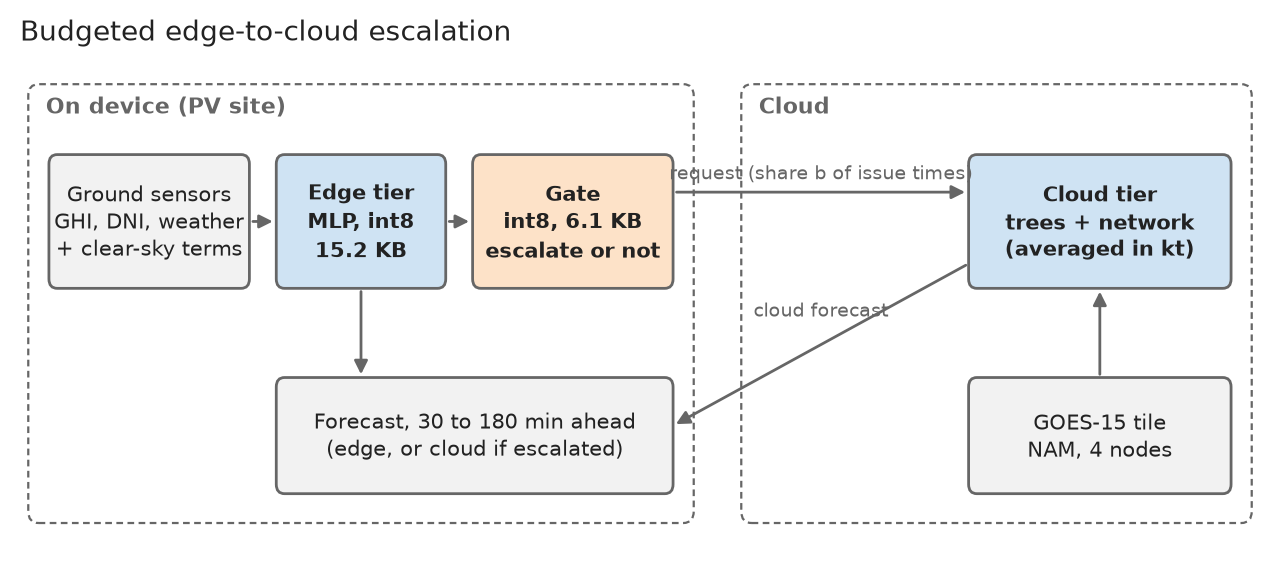
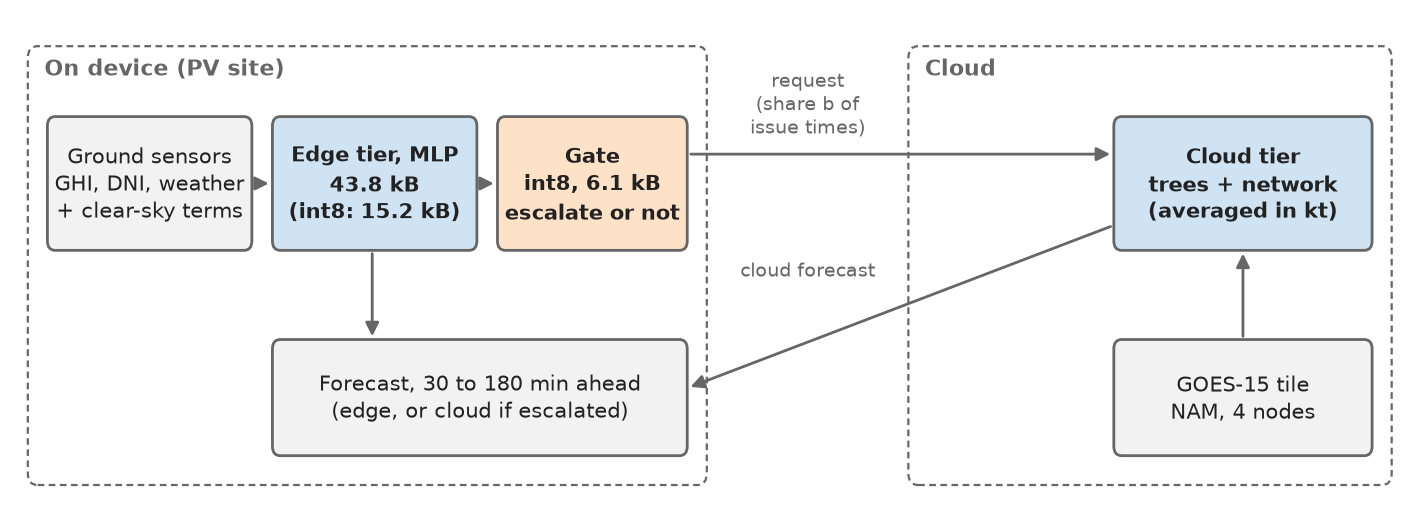
Architecture figure: edge tier fp32 43.8 kB (int8: 15.2 kB); request and cloud-forecast labels in the gap, clear of boxes and borders (checked in code); no in-figure title

diff --git a/scripts/core_figures.py b/scripts/core_figures.py
@@ -17,8 +17,8 @@ PAPER = Path("results/paper")
 
 
 def fig_architecture() -> list[str]:
-    fig, ax = plt.subplots(figsize=(8.0, 3.2))
-    ax.set_xlim(0, 12)
+    fig, ax = plt.subplots(figsize=(8.9, 3.2))
+    ax.set_xlim(0, 14.1)
     ax.set_ylim(0, 4.2)
     ax.axis("off")
     ax.grid(False)
@@ -28,29 +28,30 @@ def fig_architecture() -> list[str]:
         ax.text(x + w / 2, y + h / 2, text, ha="center", va="center", fontsize=7.5, color=S.INK,
                 fontweight="bold" if bold else "normal", linespacing=1.35)
 
-    def arrow(x0, y0, x1, y1, text="", tx=None, ty=None):
+    def arrow(x0, y0, x1, y1):
         ax.add_patch(FancyArrowPatch((x0, y0), (x1, y1), arrowstyle="-|>", mutation_scale=10, lw=1.0, color=S.MUTED))
-        if text:
-            ax.text(tx if tx is not None else (x0 + x1) / 2, ty if ty is not None else (y0 + y1) / 2 + 0.1, text,
-                    ha="center", va="bottom", fontsize=7, color=S.MUTED)
 
-    for x, w, label in ((0.1, 6.4, "On device (PV site)"), (7.0, 4.9, "Cloud")):
+    for x, w, label in ((0.1, 6.9, "On device (PV site)"), (9.1, 4.9, "Cloud")):
         ax.add_patch(FancyBboxPatch((x, 0.25), w, 3.7, boxstyle="round,pad=0.02,rounding_size=0.1", fc="none",
                                     ec=S.MUTED, lw=0.8, ls=(0, (3, 2))))
         ax.text(x + 0.15, 3.72, label, fontsize=8, color=S.MUTED, fontweight="bold")
-    box(0.3, 2.25, 1.9, 1.1, "Ground sensors\nGHI, DNI, weather\n+ clear-sky terms", "#f2f2f2")
-    box(2.5, 2.25, 1.6, 1.1, "Edge tier\nMLP, int8\n15.2 KB", "#cfe3f3", bold=True)
-    box(4.4, 2.25, 1.9, 1.1, "Gate\nint8, 6.1 KB\nescalate or not", "#fde2c8", bold=True)
-    box(2.5, 0.5, 3.8, 0.95, "Forecast, 30 to 180 min ahead\n(edge, or cloud if escalated)", "#f2f2f2")
-    box(9.2, 2.25, 2.5, 1.1, "Cloud tier\ntrees + network\n(averaged in kt)", "#cfe3f3", bold=True)
-    box(9.2, 0.5, 2.5, 0.95, "GOES-15 tile\nNAM, 4 nodes", "#f2f2f2")
-    arrow(2.2, 2.8, 2.5, 2.8)
-    arrow(4.1, 2.8, 4.4, 2.8)
-    arrow(3.3, 2.25, 3.3, 1.45)
-    arrow(6.3, 3.05, 9.2, 3.05, "request (share b of issue times)", ty=3.12)
-    arrow(10.45, 1.45, 10.45, 2.25)
-    arrow(9.2, 2.45, 6.3, 1.05, "cloud forecast", tx=7.75, ty=1.95)
-    ax.set_title("Budgeted edge-to-cloud escalation", loc="left", fontsize=10, color=S.INK)
+    box(0.3, 2.25, 2.05, 1.1, "Ground sensors\nGHI, DNI, weather\n+ clear-sky terms", "#f2f2f2")
+    box(2.6, 2.25, 2.05, 1.1, "Edge tier, MLP\n43.8 kB\n(int8: 15.2 kB)", "#cfe3f3", bold=True)
+    box(4.9, 2.25, 1.9, 1.1, "Gate\nint8, 6.1 kB\nescalate or not", "#fde2c8", bold=True)
+    box(2.6, 0.5, 4.2, 0.95, "Forecast, 30 to 180 min ahead\n(edge, or cloud if escalated)", "#f2f2f2")
+    box(11.2, 2.25, 2.6, 1.1, "Cloud tier\ntrees + network\n(averaged in kt)", "#cfe3f3", bold=True)
+    box(11.2, 0.5, 2.6, 0.95, "GOES-15 tile\nNAM, 4 nodes", "#f2f2f2")
+    arrow(2.35, 2.8, 2.6, 2.8)
+    arrow(4.65, 2.8, 4.9, 2.8)
+    arrow(3.6, 2.25, 3.6, 1.45)
+    arrow(6.8, 3.05, 11.2, 3.05)
+    arrow(12.5, 1.45, 12.5, 2.25)
+    arrow(11.2, 2.45, 6.8, 1.05)
+    # labels sit in the gap between the two groups, clear of every box, border and arrow
+    ax.text(8.05, 3.17, "request\n(share b of\nissue times)", ha="center", va="bottom", fontsize=7, color=S.MUTED)
+    ax.text(8.05, 2.05, "cloud forecast", ha="center", va="center", fontsize=7, color=S.MUTED)
+    bad = S.layout_problems(fig)
+    assert not bad, bad
     return S.save(fig, FIG / "architecture")
 
 

diff --git a/src/escal/plotstyle.py b/src/escal/plotstyle.py
@@ -40,3 +40,38 @@ def save(fig, path_stem: Path) -> list[str]:
         out.append(str(p).replace("\\", "/"))
     plt.close(fig)
     return out
+
+
+def _outline_hits(path, bb, step_px: float = 0.5) -> bool:
+    """True if any point on the drawn outline (sampled every step_px) lies inside bb."""
+    import numpy as np
+    for poly in path.to_polygons(closed_only=False):
+        for (x0, y0), (x1, y1) in zip(poly[:-1], poly[1:]):
+            n = max(2, int(np.hypot(x1 - x0, y1 - y0) / step_px) + 1)
+            xs, ys = np.linspace(x0, x1, n), np.linspace(y0, y1, n)
+            if np.any((xs >= bb.x0) & (xs <= bb.x1) & (ys >= bb.y0) & (ys <= bb.y1)):
+                return True
+    return False
+
+
+def layout_problems(fig, min_pt: float = 0.0, pad_px: float = 1.0) -> list[str]:
+    """Text that touches a patch outline (box, border, arrow) or another text, or is smaller than min_pt."""
+    from matplotlib.patches import Patch
+    from matplotlib.text import Text
+    fig.canvas.draw()
+    r = fig.canvas.get_renderer()
+    texts = [t for t in fig.findobj(Text) if t.get_visible() and t.get_text().strip()]
+    patches = [p for ax in fig.axes for p in ax.patches if isinstance(p, Patch)]
+    out = []
+    boxes = [(t, t.get_window_extent(r).expanded(1.0, 1.0).padded(pad_px)) for t in texts]
+    for t, bb in boxes:
+        if t.get_fontsize() < min_pt:
+            out.append(f"{t.get_text()!r}: {t.get_fontsize()} pt < {min_pt} pt")
+        for p in patches:
+            if _outline_hits(p.get_transform().transform_path(p.get_path()), bb):
+                out.append(f"{t.get_text()!r} touches a patch outline")
+    for i, (a, ba) in enumerate(boxes):
+        for b, bb in boxes[i + 1:]:
+            if ba.overlaps(bb):
+                out.append(f"{a.get_text()!r} overlaps {b.get_text()!r}")
+    return out
